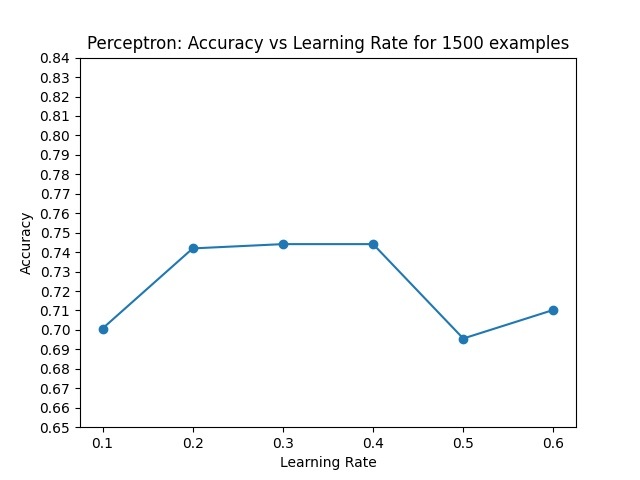
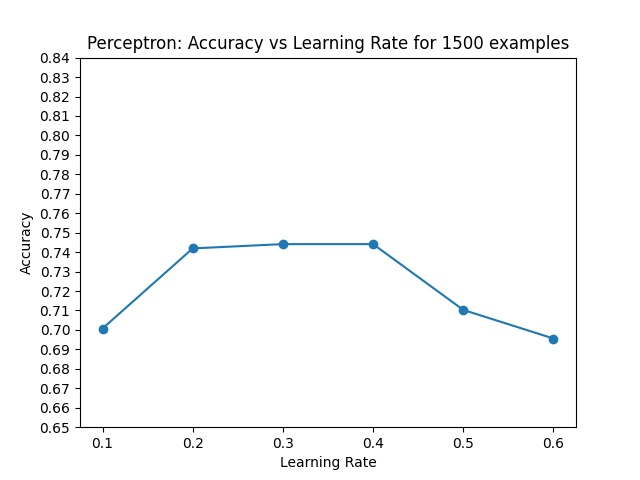
Few more changes

Changed region(s): [[0.5938, 0.5, 0.875, 0.7188], [0.8438, 0.625, 0.875, 0.6562]]

diff --git a/Plotting.py b/Plotting.py
@@ -50,11 +50,11 @@ logistic_accuracies, perceptron_accuracies = [
     [0.8, 0.7941176470588235, 0.7779411764705882, 0.775, 0.775, 0.775],
     [0.7977941176470588, 0.7911764705882353, 0.774264705882353, 0.775, 0.7735294117647058, 0.7742647058823529]
     ], [
-    [0.7102941176470589, 0.7397058823529411, 0.7397058823529411, 0.7397058823529412, 0.6948529411764707, 0.7066176470588236],
-    [0.7036764705882353, 0.7389705882352942, 0.7419117647058824, 0.7375, 0.6970588235294117, 0.7095588235294118],
-    [0.7029411764705882, 0.7382352941176471, 0.7426470588235294, 0.7426470588235294, 0.6963235294117648, 0.7102941176470589],
-    [0.7029411764705882, 0.7382352941176471, 0.7426470588235294, 0.7426470588235294, 0.6963235294117648, 0.7102941176470589,],
-    [0.7007352941176471, 0.7419117647058824, 0.7441176470588237, 0.7441176470588237, 0.6955882352941177, 0.7102941176470589 ]
+    [0.7102941176470589, 0.7397058823529411, 0.7397058823529411, 0.7397058823529412, 0.7066176470588236, 0.694852941176470],
+    [0.7036764705882353, 0.7389705882352942, 0.7419117647058824, 0.7375, 0.7095588235294118, 0.6970588235294117],
+    [0.7029411764705882, 0.7382352941176471, 0.7426470588235294, 0.7426470588235294, 0.7102941176470589, 0.6963235294117648],
+    [0.7029411764705882, 0.7382352941176471, 0.7426470588235294, 0.7426470588235294, 0.7102941176470589,0.7103526,],
+    [0.7007352941176471, 0.7419117647058824, 0.7441176470588237, 0.7441176470588237, 0.7102941176470589, 0.6955882352941177]
     ]
 
 # for each value of max iterations, creating list of answers

diff --git a/Execution.py b/Execution.py
@@ -41,11 +41,11 @@ def split_dataset(all_data):
     [0.8, 0.7941176470588235, 0.7779411764705882, 0.775, 0.775, 0.775],
     [0.7977941176470588, 0.7911764705882353, 0.774264705882353, 0.775, 0.7735294117647058, 0.7742647058823529]
     ], [
-    [0.7102941176470589, 0.7397058823529411, 0.7397058823529411, 0.7397058823529412, 0.6948529411764707, 0.7066176470588236],
-    [0.7036764705882353, 0.7389705882352942, 0.7419117647058824, 0.7375, 0.6970588235294117, 0.7095588235294118],
-    [0.7029411764705882, 0.7382352941176471, 0.7426470588235294, 0.7426470588235294, 0.6963235294117648, 0.7102941176470589],
-    [0.7029411764705882, 0.7382352941176471, 0.7426470588235294, 0.7426470588235294, 0.6963235294117648, 0.7102941176470589,],
-    [0.7007352941176471, 0.7419117647058824, 0.7441176470588237, 0.7441176470588237, 0.6955882352941177, 0.7102941176470589 ]
+    [0.7102941176470589, 0.7397058823529411, 0.7397058823529411, 0.7397058823529412, 0.7066176470588236, 0.694852941176470],
+    [0.7036764705882353, 0.7389705882352942, 0.7419117647058824, 0.7375, 0.7095588235294118, 0.6970588235294117],
+    [0.7029411764705882, 0.7382352941176471, 0.7426470588235294, 0.7426470588235294, 0.7102941176470589, 0.6963235294117648],
+    [0.7029411764705882, 0.7382352941176471, 0.7426470588235294, 0.7426470588235294, 0.7102941176470589,0.7103526,],
+    [0.7007352941176471, 0.7419117647058824, 0.7441176470588237, 0.7441176470588237, 0.7102941176470589, 0.6955882352941177]
     ]
     
     # Need to perform 5 Fold on this.
